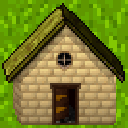
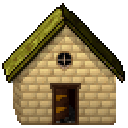
better image loading

diff --git a/tindra/js/rendering.js b/tindra/js/rendering.js
@@ -1,7 +1,7 @@
 import { getCanvas, getCtx, getMinimapCanvas, getMinimapCtx } from "./ui.js";
 import { world, getTile } from "./terrain.js";
 import { getActiveNpc } from "./npc.js";
-import { getPlayerX, getPlayerY, getPlayerAngle, getStartPosition } from "./player.js";
+import { getPlayerX, getPlayerY, getPlayerAngle, getStartPosition, isUpsideDown } from "./player.js";
 import { getCheckpoints } from "./checkpoints.js";
 import { minimapVisible } from "./input.js";
 
@@ -10,28 +10,33 @@ const ctx = getCtx();
 const minimapCanvas = getMinimapCanvas();
 const minimapCtx = getMinimapCtx();
 const tileSize = world.tileSize;
-const imageSize = tileSize; // Adjust size if needed
+const imageSize = tileSize; 
 
 const playerImage = new Image();
-playerImage.src = 'https://kartritaren.se/tindra/player.png'; // Make sure this matches your filename
+playerImage.src = './assets/player.png';
 const npc1 = new Image();
-npc1.src = 'https://kartritaren.se/tindra/npc1.png'; // Use correct path
+npc1.src = './assets/npc1.png';
+const tileBackgroundImage = new Image();
+tileBackgroundImage.src = './assets/base1.png';
+
+const lightRadiusTiles = world.lightRadius; //tiles
 
 function drawWorld(gameMode) {
   const pX = getPlayerX();
   const pY = getPlayerY();
   const pAngle = getPlayerAngle();
   const checkpoints = getCheckpoints();
+  const lightRadius = lightRadiusTiles * tileSize;
 
   ctx.save();
   ctx.translate(canvas.width / 2, canvas.height / 2);
   ctx.rotate(-pAngle);
   ctx.translate(-pX, -pY);
 
-  const minX = Math.floor((pX - canvas.width / 2) / tileSize) - 1;
-  const maxX = Math.floor((pX + canvas.width / 2) / tileSize) + 1;
-  const minY = Math.floor((pY - canvas.height / 2) / tileSize) - 1;
-  const maxY = Math.floor((pY + canvas.height / 2) / tileSize) + 1;
+  const minX = Math.floor((pX - lightRadius) / tileSize) - 1;
+  const maxX = Math.floor((pX + lightRadius) / tileSize) + 1;
+  const minY = Math.floor((pY - lightRadius) / tileSize) - 1;
+  const maxY = Math.floor((pY + lightRadius) / tileSize) + 1;
 
 for (let y = minY; y <= maxY; y++) {
   for (let x = minX; x <= maxX; x++) {
@@ -39,25 +44,22 @@ for (let y = minY; y <= maxY; y++) {
     const centerX = x * tileSize + tileSize / 2;
     const centerY = y * tileSize + tileSize / 2;
 
-    if (tile.image) {
-      const tileImage = new Image();
-      tileImage.src = tile.image;
-
-      ctx.drawImage(
-        tileImage,
-        centerX - tileSize / 2,
-        centerY - tileSize / 2,
+    if (tileBackgroundImage) {
+        ctx.drawImage(
+        tileBackgroundImage,
+        x * tileSize,
+        y * tileSize,
         tileSize,
         tileSize
       );
-    } else {
-      // fallback: white square if image not ready
-      ctx.fillStyle = tile.color || '#ffffff';
-      ctx.fillRect(
-        centerX - tileSize * 0.55,
-        centerY - tileSize * 0.55,
-        tileSize * 1.1,
-        tileSize * 1.1
+    }
+    if (tile.image) {
+      ctx.drawImage(
+        tile.image,
+        x * tileSize,
+        y * tileSize,
+        tileSize,
+        tileSize
       );
     }
   }
@@ -82,10 +84,10 @@ for (let y = minY; y <= maxY; y++) {
   drawNpc();
 
   if(gameMode==="normal"){
-    drawGradient();
+    drawGradient(lightRadius);
   }
   else {
-    drawFlashlight(pX, pY, pAngle);
+    drawFlashlight(pX, pY, pAngle, lightRadius);
   }
 
   drawCompass(pAngle);
@@ -103,21 +105,19 @@ function drawNpc() {
   }
 }
 
-function drawGradient() {
+function drawGradient(lightRadius) {
     const px = canvas.width / 2;
     const py = canvas.height / 2;
-    const lightRadius = 250;
 
     const gradient = ctx.createRadialGradient(px, py, 0, px, py, lightRadius);
     gradient.addColorStop(0, 'rgba(255, 255, 255, 0)');
-    gradient.addColorStop(1, 'rgba(0, 0, 0, 0.8)');
+    gradient.addColorStop(1, 'rgba(0, 0, 0, 1)');
 
     ctx.fillStyle = gradient;
     ctx.fillRect(0, 0, canvas.width, canvas.height);
 }
 
-function drawFlashlight(pX, pY, pAngle) {
-  const lightRadius = 200;
+function drawFlashlight(pX, pY, pAngle, lightRadius) {
   const beamAngle = 2 * Math.PI / 3;
   const px = canvas.width / 2;
   const py = canvas.height / 2;
@@ -169,7 +169,7 @@ function castRayWorld(pX, pY, angle, maxDist) {
 
     if (tile.blocksLight) return d;
     if (tile.semiBlocksLight) {
-      accumulatedOpacity += 0.5;
+      accumulatedOpacity += 0.1;
       if (accumulatedOpacity >= 1) return d;
     }
   }

diff --git a/tindra/js/player.js b/tindra/js/player.js
@@ -30,7 +30,16 @@ function getStartPosition() {
 function setPlayerPositionAndAngle(x, y, theta) {
   player.x = x;
   player.y = y;
-  player.angle = theta;
+  player.angle = theta % Math.PI;
+}
+
+function isUpsideDown() {
+  return Math.abs(player.angle) > Math.PI / 2;
+}
+
+function setPlayerAngle(theta){
+  player.angle = theta % (2 * Math.PI);
+  console.info(player.angle)
 }
 
 function setPlayerPosition(x, y){
@@ -51,7 +60,7 @@ function getPlayerAngle(){
 }
 
 function turnPlayer(speed){
-  player.angle += speed;
+  setPlayerAngle(player.angle + speed);
 }
 
 function getTileAtPlayer(){
@@ -90,6 +99,7 @@ function update() {
   }
 
   movePlayer(dx, dy);
+  if (getTileAtPlayer().impassable) movePlayer(-dx, -dy);
 
   const nextCheckpoint = getCheckpoint(score);
   if (nextCheckpoint) increaseIfCheckpointFound(nextCheckpoint);
@@ -124,6 +134,7 @@ export {
   getPlayerX,
   getPlayerY,
   getPlayerAngle,
-  getStartPosition
+  getStartPosition,
+  isUpsideDown
 };
 

diff --git a/tindra/js/terrain.js b/tindra/js/terrain.js
@@ -1,10 +1,11 @@
 import Tile from './tile.js';
 
-const tileSize = 40; //pixels
+const lightRadius = 6;
+const tileSize = window.innerHeight / (2 * lightRadius); //pixels
 const chunkSize = 10; //tiles
 const mapSize = 30; //tiles
 
-let world = {tileSize: tileSize, chunkSize: chunkSize, mapSize: mapSize};
+let world = {tileSize: tileSize, chunkSize: chunkSize, mapSize: mapSize, lightRadius: lightRadius};
 let terrainChunks = new Map();
 let tiles = tilesInit();
 
@@ -28,7 +29,7 @@ function tilesInit() {
       name: 'building',
       color: '#222',
       image: './assets/building1.png',
-      speed: 0.01,
+      speed: 0,
       impassable: true,
       blocksLight: true
   }),

diff --git a/tindra/js/tile.js b/tindra/js/tile.js
@@ -2,11 +2,14 @@ class Tile {
   constructor({name, color, image, speed = 1, impassable = false, blocksLight = false, semiBlocksLight = false}) {
     this.name = name;
     this.color = color;
-    this.image = image;
     this.speed = speed;
     this.impassable = impassable;
     this.blocksLight = blocksLight;
     this.semiBlocksLight = semiBlocksLight;
+
+    const imageObj = new Image();
+    imageObj.src = image;
+    this.image = imageObj;
   }
 }
 

diff --git a/tindra/js/utils.js b/tindra/js/utils.js
@@ -1,6 +1,7 @@
 function isMobileDevice() {
     return /Mobi|Android|iPhone|iPad|iPod|BlackBerry|IEMobile|Opera Mini/i.test(navigator.userAgent);
   }
+
   
 export {
   isMobileDevice
